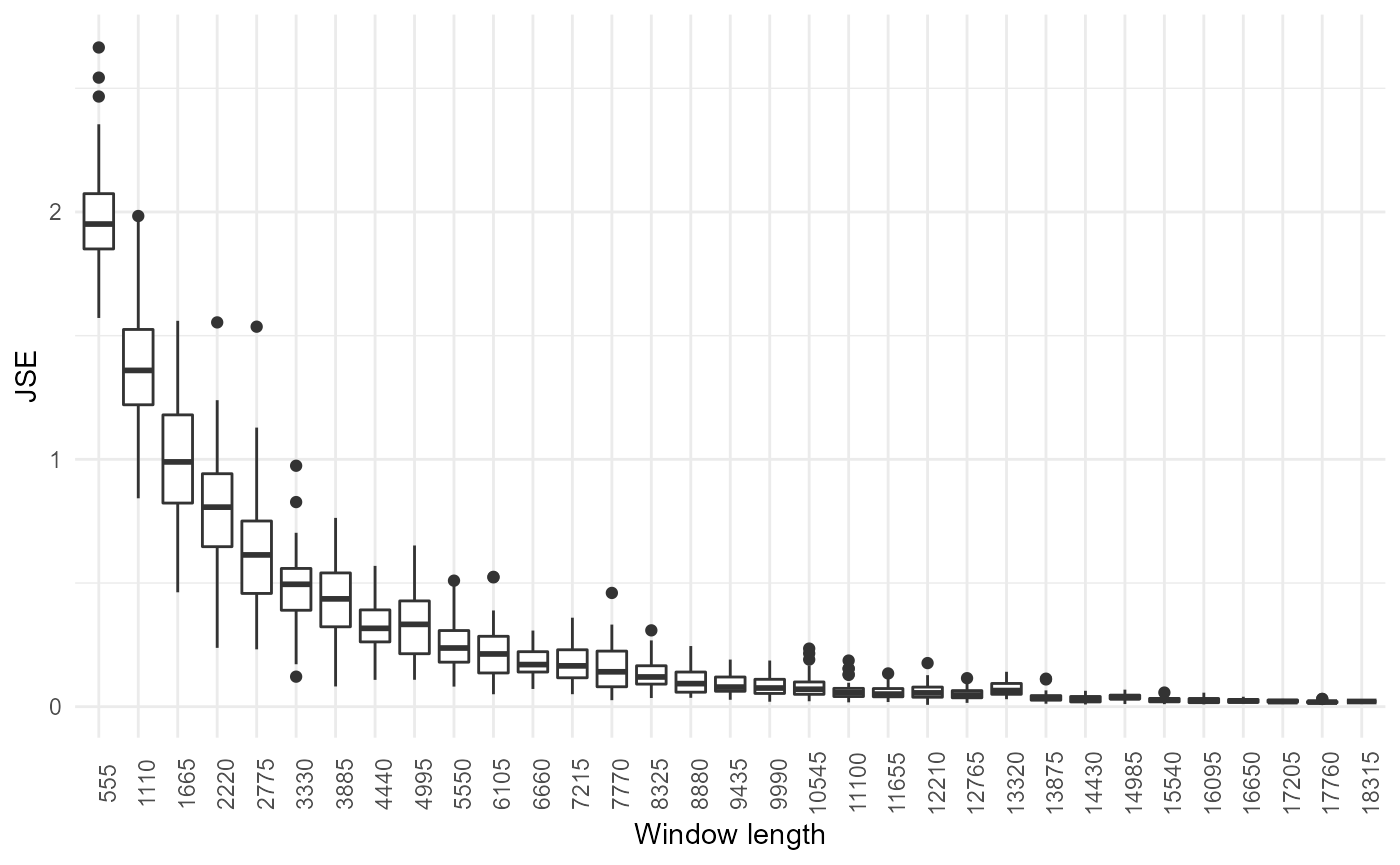
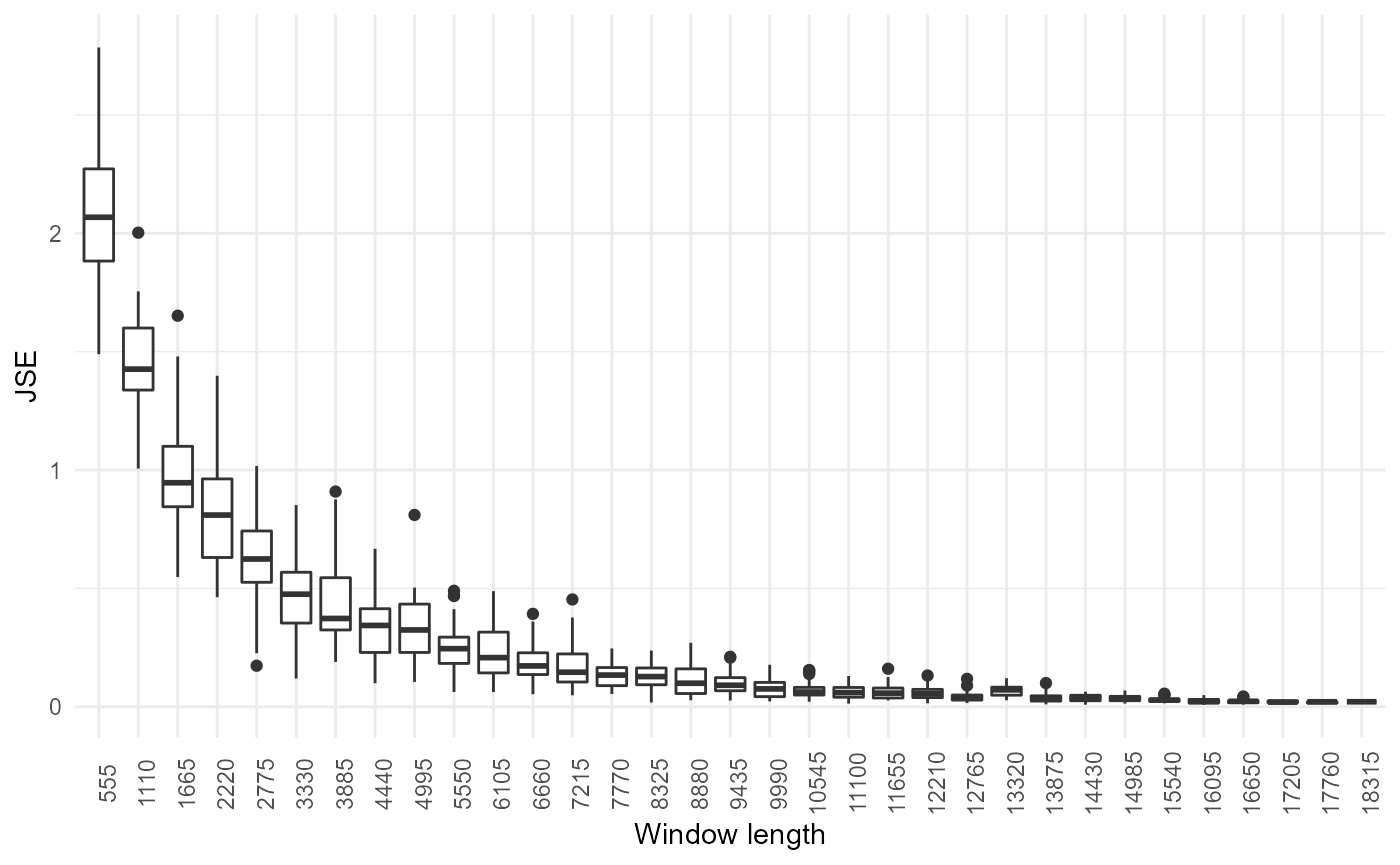
small update to readme

diff --git a/docs/articles/vignette_noisyr_counts.html b/docs/articles/vignette_noisyr_counts.html
@@ -116,6 +116,7 @@
 
     
     
+<div style="text-align: justify">
 <p>The <em>noisyR</em> package is an end-to-end pipeline for quantifying and removing technical noise from HTS datasets. The three main pipeline steps are:</p>
 <ol style="list-style-type: decimal">
 <li>similarity calculation<br>
@@ -127,9 +128,7 @@
 <p>Each step can be finely tuned using hyperparameters; optimal, data-driven values for these parameters are also determined.</p>
 <p>The package and some applications are described in more detail in <a href="https://www.biorxiv.org/content/10.1101/2021.01.17.427026v2">this paper</a> and is actively maintained on <a href="https://github.com/Core-Bioinformatics/noisyR" class="uri">https://github.com/Core-Bioinformatics/noisyR</a>.</p>
 <p>The <strong>count matrix approach</strong> uses the original, un-normalised count matrix, as provided after alignment and feature quantification; each sample is processed individually, only the relative expressions across samples are compared. Relying on the hypothesis that the majority of genes are not DE, most of the evaluations are expected to point towards a high similarity across samples.</p>
-<div id="installation" class="section level1">
-<h1 class="hasAnchor">
-<a href="#installation" class="anchor"></a>Installation</h1>
+<h1 id="installation">Installation</h1>
 <p>To install the package, first install all bioconductor dependencies:</p>
 <div class="sourceCode" id="cb1"><pre class="downlit sourceCode r">
 <code class="sourceCode R"><span class="va">packages.bioc</span> <span class="op">&lt;-</span> <span class="fu"><a href="https://rdrr.io/r/base/c.html">c</a></span><span class="op">(</span><span class="st">"preprocessCore"</span>,
@@ -163,10 +162,7 @@
 <span class="kw">if</span> <span class="op">(</span><span class="op">!</span><span class="fu"><a href="https://rdrr.io/r/base/ns-load.html">requireNamespace</a></span><span class="op">(</span><span class="st">"devtools"</span>, quietly <span class="op">=</span> <span class="cn">TRUE</span><span class="op">)</span><span class="op">)</span>
   <span class="fu"><a href="https://rdrr.io/r/utils/install.packages.html">install.packages</a></span><span class="op">(</span><span class="st">"devtools"</span><span class="op">)</span>
 <span class="fu">devtools</span><span class="fu">::</span><span class="fu"><a href="https://devtools.r-lib.org//reference/remote-reexports.html">install_github</a></span><span class="op">(</span><span class="st">"Core-Bioinformatics/noisyR"</span><span class="op">)</span></code></pre></div>
-</div>
-<div id="preprocessing" class="section level1">
-<h1 class="hasAnchor">
-<a href="#preprocessing" class="anchor"></a>Preprocessing</h1>
+<h1 id="preprocessing">Preprocessing</h1>
 <p>First, load <em>noisyR</em>:</p>
 <div class="sourceCode" id="cb4"><pre class="downlit sourceCode r">
 <code class="sourceCode R"><span class="kw"><a href="https://rdrr.io/r/base/library.html">library</a></span><span class="op">(</span><span class="va"><a href="https://github.com/Core-Bioinformatics/noisyR">noisyr</a></span><span class="op">)</span></code></pre></div>
@@ -191,10 +187,7 @@
 <p>Note that when reading from a file R typically returns a data frame. To convert to a matrix we use the function <em>cast_matrix_to_numeric()</em>. This also converts values to numeric (in case they were read as characters). Any values that are not coercible to numeric are replaced by 0.</p>
 <div class="sourceCode" id="cb6"><pre class="downlit sourceCode r">
 <code class="sourceCode R"><span class="va">expression.matrix</span> <span class="op">&lt;-</span> <span class="fu">noisyr</span><span class="fu">::</span><span class="fu"><a href="../reference/cast_matrix_to_numeric.html">cast_matrix_to_numeric</a></span><span class="op">(</span><span class="va">df</span><span class="op">)</span></code></pre></div>
-</div>
-<div id="running-noisyr" class="section level1">
-<h1 class="hasAnchor">
-<a href="#running-noisyr" class="anchor"></a>Running <em>noisyR</em>
+<h1 id="running-noisyr">Running <em>noisyR</em>
 </h1>
 <p>The full <em>noisyR</em> pipeline can be run through <em>noisyr()</em>, choosing “counts” for the count matrix approach (internally calls <em>noisyr_counts()</em>). The user can pass many arguments to this function, which alter the behaviour of the different pipeline steps, as discussed in the breakdown below.</p>
 <div class="sourceCode" id="cb7"><pre class="downlit sourceCode r">
@@ -234,14 +227,9 @@
 <span class="fu"><a href="https://rdrr.io/r/base/apply.html">apply</a></span><span class="op">(</span><span class="va">expression.matrix.denoised.standard</span>, <span class="fl">2</span>, <span class="va">min</span><span class="op">)</span>
 <span class="co">#&gt; SRR7624365 SRR7624366 SRR7624371 SRR7624372 </span>
 <span class="co">#&gt;         18         18         18         18</span></code></pre></div>
-</div>
-<div id="pipeline-breakdown" class="section level1">
-<h1 class="hasAnchor">
-<a href="#pipeline-breakdown" class="anchor"></a>Pipeline breakdown</h1>
+<h1 id="pipeline-breakdown">Pipeline breakdown</h1>
 <p>While for most applications, running <em>noisyr()</em> is sufficient, it may be useful to run individual pipeline steps manually. For example, the user may want to create summary figures for the denoising, store the noise thresholds obtained or other intermediary outputs, or try out different options without rerunning all steps. In this section, we look deeper into <em>noisyr()</em> and break down the three main steps that are performed.</p>
-<div id="similarity-calculation" class="section level2">
-<h2 class="hasAnchor">
-<a href="#similarity-calculation" class="anchor"></a>Similarity calculation</h2>
+<h2 id="similarity-calculation">Similarity calculation</h2>
 <p>We can then run the similarity calculation using <em>calculate_expression_similarity_counts()</em>:</p>
 <div class="sourceCode" id="cb9"><pre class="downlit sourceCode r">
 <code class="sourceCode R"><span class="va">expression.summary</span> <span class="op">&lt;-</span> <span class="fu">noisyr</span><span class="fu">::</span><span class="fu"><a href="../reference/calculate_expression_similarity_counts.html">calculate_expression_similarity_counts</a></span><span class="op">(</span>
@@ -311,10 +299,10 @@
 <span class="co">#&gt; Calculating expression summary and JSE for each window...</span>
 <span class="co">#&gt; Performing t-tests...</span>
 <span class="co">#&gt; The number of similar windows found for each window (including itself) were:</span>
-<span class="co">#&gt;     1 1 1 1 1 2 2 2 2 2 2 3 3 4 2 2 4 4 4 4 4 4 2 5 2 2 2 4 3 4 3 1 2</span>
+<span class="co">#&gt;     1 1 1 1 1 2 2 2 2 2 2 2 2 3 3 4 2 3 6 5 5 5 3 6 4 4 3 1 2 4 4 2 3</span>
 <span class="co">#&gt; Optimal window found!</span></code></pre></div>
 <p><img src="vignette_noisyr_counts_files/figure-html/window_opt-1.png" width="700"></p>
-<pre><code>#&gt; [1] 6660</code></pre>
+<pre><code>#&gt; [1] 7770</code></pre>
 <p>Window length optimisation can be turned on using the <em>optimise.window.length.logical</em> parameter in <em>noisyr()</em> or <em>noisyr_counts()</em>.</p>
 <p>Plots of the abundance-correlation relation can be generated through the <em>plot_expression_similarity()</em> function:</p>
 <div class="sourceCode" id="cb13"><pre class="downlit sourceCode r">
@@ -346,10 +334,7 @@
     <span class="fu">ggplot2</span><span class="fu">::</span><span class="fu"><a href="https://ggplot2.tidyverse.org/reference/labs.html">ylab</a></span><span class="op">(</span><span class="st">"Pearson correlation"</span><span class="op">)</span> <span class="op">+</span>
     <span class="fu">ggplot2</span><span class="fu">::</span><span class="fu"><a href="https://ggplot2.tidyverse.org/reference/geom_abline.html">geom_hline</a></span><span class="op">(</span>yintercept<span class="op">=</span><span class="fl">0.25</span>, color<span class="op">=</span><span class="st">"black"</span><span class="op">)</span></code></pre></div>
 <p><img src="vignette_noisyr_counts_files/figure-html/combined_plot-1.png" width="700"></p>
-</div>
-<div id="noise-quantification" class="section level2">
-<h2 class="hasAnchor">
-<a href="#noise-quantification" class="anchor"></a>Noise quantification</h2>
+<h2 id="noise-quantification">Noise quantification</h2>
 <p>Using the output of the similarity calculation, we can compute the signal to noise threshold in each sample:</p>
 <div class="sourceCode" id="cb15"><pre class="downlit sourceCode r">
 <code class="sourceCode R"><span class="va">noise.thresholds</span> <span class="op">&lt;-</span> <span class="fu">noisyr</span><span class="fu">::</span><span class="fu"><a href="../reference/calculate_noise_threshold_base.html">calculate_noise_threshold_base</a></span><span class="op">(</span>expression <span class="op">=</span> <span class="va">expression.summary</span><span class="op">)</span>
@@ -431,10 +416,7 @@
 <span class="va">noise.thresholds</span>
 <span class="co">#&gt; [1]  9.664027 13.325175  7.368364  9.171495</span></code></pre></div>
 <p>Noise removal parameter optimisation can be turned on using the <em>minimise.coefficient.of.variation</em> parameter in <em>noisyr()</em> or <em>noisyr_counts()</em> and passing further parameters for <em>similarity.threshold.sequence</em> and/or <em>method.chosen.sequence</em>.</p>
-</div>
-<div id="noise-removal" class="section level2">
-<h2 class="hasAnchor">
-<a href="#noise-removal" class="anchor"></a>Noise removal</h2>
+<h2 id="noise-removal">Noise removal</h2>
 <p>To produce the denoised count matrix, the function <em>remove_noise_from_matrix()</em> is used with a specified vector of noise thresholds (usually calculated by <em>calculate_noise_threshold_base()</em>).</p>
 <div class="sourceCode" id="cb19"><pre class="downlit sourceCode r">
 <code class="sourceCode R"><span class="va">expression.matrix.denoised</span> <span class="op">&lt;-</span> <span class="fu">noisyr</span><span class="fu">::</span><span class="fu"><a href="../reference/remove_noise_from_matrix.html">remove_noise_from_matrix</a></span><span class="op">(</span>
@@ -503,11 +485,7 @@
 <span class="fu"><a href="https://rdrr.io/r/base/identical.html">identical</a></span><span class="op">(</span><span class="va">expression.matrix.denoised</span>,
           <span class="va">expression.matrix.denoised.full_pipeline</span><span class="op">)</span>
 <span class="co">#&gt; [1] TRUE</span></code></pre></div>
-</div>
-</div>
-<div id="downstream-analysis" class="section level1">
-<h1 class="hasAnchor">
-<a href="#downstream-analysis" class="anchor"></a>Downstream analysis</h1>
+<h1 id="downstream-analysis">Downstream analysis</h1>
 <p>The denoised matrix can be used instead of the raw count matrix for downstream analysis. Here we present a simple example of a differential expression (DE) analysis and compare the two.</p>
 <p>We create a function to perform the same DE pipeline on both matrices, using <a href="https://www.ncbi.nlm.nih.gov/pmc/articles/PMC2796818/">the edgeR package</a>.</p>
 <div class="sourceCode" id="cb22"><pre class="downlit sourceCode r">
@@ -574,9 +552,7 @@
 
   <div class="col-md-3 hidden-xs hidden-sm" id="pkgdown-sidebar">
 
-        <nav id="toc" data-toggle="toc"><h2 data-toc-skip>Contents</h2>
-    </nav>
-</div>
+      </div>
 
 </div>
 

diff --git a/docs/reference/noisyr_transcript.html b/docs/reference/noisyr_transcript.html
@@ -246,7 +246,7 @@ of remove_noise_from_bams()</p>
   bams <span class='op'>=</span> <span class='va'>bams</span>,
   genes <span class='op'>=</span> <span class='va'>genes</span>
 <span class='op'>)</span>
-</div><div class='output co'>#&gt; <span class='message'>&gt;&gt;&gt; noisyR transcript approach pipeline &lt;&lt;&lt;</span></div><div class='output co'>#&gt; <span class='message'>Calculating expression similarity for 2 genes...</span></div><div class='output co'>#&gt; <span class='message'>    this process may take a long time...</span></div><div class='output co'>#&gt; <span class='message'>    ncores=1, running sequentially...</span></div><div class='output co'>#&gt; <span class='warning'>Warning: the standard deviation is zero</span></div><div class='output co'>#&gt; <span class='warning'>Warning: the standard deviation is zero</span></div><div class='output co'>#&gt; <span class='message'>Finished! Time elapsed: 0.48 secs</span></div><div class='output co'>#&gt; <span class='message'>Similarity calculation produced too many NAs, returning zero...</span></div><div class='output co'>#&gt; <span class='message'>Denoising 2 BAM files...</span></div><div class='output co'>#&gt; <span class='message'>  filtering genes using the noise thresholds</span></div><div class='output co'>#&gt; <span class='message'>    doing filtering by gene</span></div><div class='output co'>#&gt; <span class='message'>Kept 2 entries out of 2</span></div><div class='output co'>#&gt; <span class='message'>  denoising BAM file 1 of 2</span></div><div class='output co'>#&gt; <span class='message'>  denoising BAM file 2 of 2</span></div><div class='output co'>#&gt; <span class='message'>&gt;&gt;&gt; Done! &lt;&lt;&lt;</span></div></pre>
+</div><div class='output co'>#&gt; <span class='message'>&gt;&gt;&gt; noisyR transcript approach pipeline &lt;&lt;&lt;</span></div><div class='output co'>#&gt; <span class='message'>Calculating expression similarity for 2 genes...</span></div><div class='output co'>#&gt; <span class='message'>    this process may take a long time...</span></div><div class='output co'>#&gt; <span class='message'>    ncores=1, running sequentially...</span></div><div class='output co'>#&gt; <span class='warning'>Warning: the standard deviation is zero</span></div><div class='output co'>#&gt; <span class='warning'>Warning: the standard deviation is zero</span></div><div class='output co'>#&gt; <span class='message'>Finished! Time elapsed: 0.49 secs</span></div><div class='output co'>#&gt; <span class='message'>Similarity calculation produced too many NAs, returning zero...</span></div><div class='output co'>#&gt; <span class='message'>Denoising 2 BAM files...</span></div><div class='output co'>#&gt; <span class='message'>  filtering genes using the noise thresholds</span></div><div class='output co'>#&gt; <span class='message'>    doing filtering by gene</span></div><div class='output co'>#&gt; <span class='message'>Kept 2 entries out of 2</span></div><div class='output co'>#&gt; <span class='message'>  denoising BAM file 1 of 2</span></div><div class='output co'>#&gt; <span class='message'>  denoising BAM file 2 of 2</span></div><div class='output co'>#&gt; <span class='message'>&gt;&gt;&gt; Done! &lt;&lt;&lt;</span></div></pre>
   </div>
   <div class="col-md-3 hidden-xs hidden-sm" id="pkgdown-sidebar">
     <nav id="toc" data-toggle="toc" class="sticky-top">

diff --git a/docs/index.html b/docs/index.html
@@ -113,10 +113,11 @@
 <div class="page-header"><h1 class="hasAnchor">
 <a href="#noisyr-enhancing-biological-signal-in-sequencing-datasets-by-characterising-random-technical-noise" class="anchor"></a><em>noisyR</em>: Enhancing biological signal in sequencing datasets by characterising random technical noise</h1></div>
 
+<div style="text-align: justify">
 <p>High-throughput sequencing enables an unprecedented resolution in transcript quantification, at the cost of magnifying the impact of technical noise. The consistent reduction of random background noise to capture functionally meaningful biological signals is still challenging. Intrinsic sequencing variability introducing low-level expression variations can obscure patterns in downstream analyses.</p>
 <p>The noisyR package comprises an end-to-end pipeline for quantifying and removing technical noise from HTS datasets. The three main pipeline steps are [i] similarity calculation across samples, [ii] noise quantification, and [iii] noise removal; each step can be finely tuned using hyperparameters; optimal, data-driven values for these parameters are also determined.</p>
 <p>Preprint: <a href="https://www.biorxiv.org/content/10.1101/2021.01.17.427026v2" class="uri">https://www.biorxiv.org/content/10.1101/2021.01.17.427026v2</a></p>
-<p><img src="https://github.com/Core-Bioinformatics/noisyR/blob/master/docs/figures/workflow.png?raw=true" width="400"></p>
+<p><img src="https://github.com/Core-Bioinformatics/noisyR/blob/master/docs/figures/workflow.png?raw=true" width="900"></p>
 <p><em>Workflow diagram of the <strong>noisyr</strong> pipeline</em></p>
 <div id="similarity-calculation-across-samples" class="section level2">
 <h2 class="hasAnchor">
@@ -180,6 +181,7 @@
 <li>GenomicRanges</li>
 <li>Rsamtools</li>
 </ul>
+</div>
 </div>
 </div>
 </div>

diff --git a/docs/reference/calculate_expression_similarity_transcript.html b/docs/reference/calculate_expression_similarity_transcript.html
@@ -302,7 +302,7 @@ but parallelisation is highly encouraged; it is set to detectCores() if higher</
   genes <span class='op'>=</span> <span class='va'>genes</span>,
   mapq.unique <span class='op'>=</span> <span class='fl'>99</span>
 <span class='op'>)</span>
-</div><div class='output co'>#&gt; <span class='message'>Calculating expression similarity for 2 genes...</span></div><div class='output co'>#&gt; <span class='message'>    this process may take a long time...</span></div><div class='output co'>#&gt; <span class='message'>    ncores=1, running sequentially...</span></div><div class='output co'>#&gt; <span class='message'>Finished! Time elapsed: 2.93 secs</span></div></pre>
+</div><div class='output co'>#&gt; <span class='message'>Calculating expression similarity for 2 genes...</span></div><div class='output co'>#&gt; <span class='message'>    this process may take a long time...</span></div><div class='output co'>#&gt; <span class='message'>    ncores=1, running sequentially...</span></div><div class='output co'>#&gt; <span class='message'>Finished! Time elapsed: 1.95 secs</span></div></pre>
   </div>
   <div class="col-md-3 hidden-xs hidden-sm" id="pkgdown-sidebar">
     <nav id="toc" data-toggle="toc" class="sticky-top">

diff --git a/README.md b/README.md
@@ -3,13 +3,15 @@
 [![rstudio mirror downloads](http://cranlogs.r-pkg.org/badges/noisyr)](https://github.com/metacran/cranlogs.app)
 [![rstudio mirror downloads](http://cranlogs.r-pkg.org/badges/grand-total/noisyr)](https://github.com/metacran/cranlogs.app)
 
+<div style="text-align: justify"> 
+
 High-throughput sequencing enables an unprecedented resolution in transcript quantification, at the cost of magnifying the impact of technical noise. The consistent reduction of random background noise to capture functionally meaningful biological signals is still challenging. Intrinsic sequencing variability introducing low-level expression variations can obscure patterns in downstream analyses.
 
 The noisyR package comprises an end-to-end pipeline for quantifying and removing technical noise from HTS datasets. The three main pipeline steps are [i] similarity calculation across samples, [ii] noise quantification, and [iii] noise removal; each step can be finely tuned using hyperparameters; optimal, data-driven values for these parameters are also determined.
 
 Preprint: https://www.biorxiv.org/content/10.1101/2021.01.17.427026v2
 
-<img src="https://github.com/Core-Bioinformatics/noisyR/blob/master/docs/figures/workflow.png?raw=true" width="400">
+<img src="https://github.com/Core-Bioinformatics/noisyR/blob/master/docs/figures/workflow.png?raw=true" width="900">
 
 *Workflow diagram of the **noisyr** pipeline*
 
@@ -73,3 +75,5 @@ Main function: *remove_noise_from_matrix()*, *remove_noise_from_bams()*
 * IRanges
 * GenomicRanges
 * Rsamtools
+
+</div>
